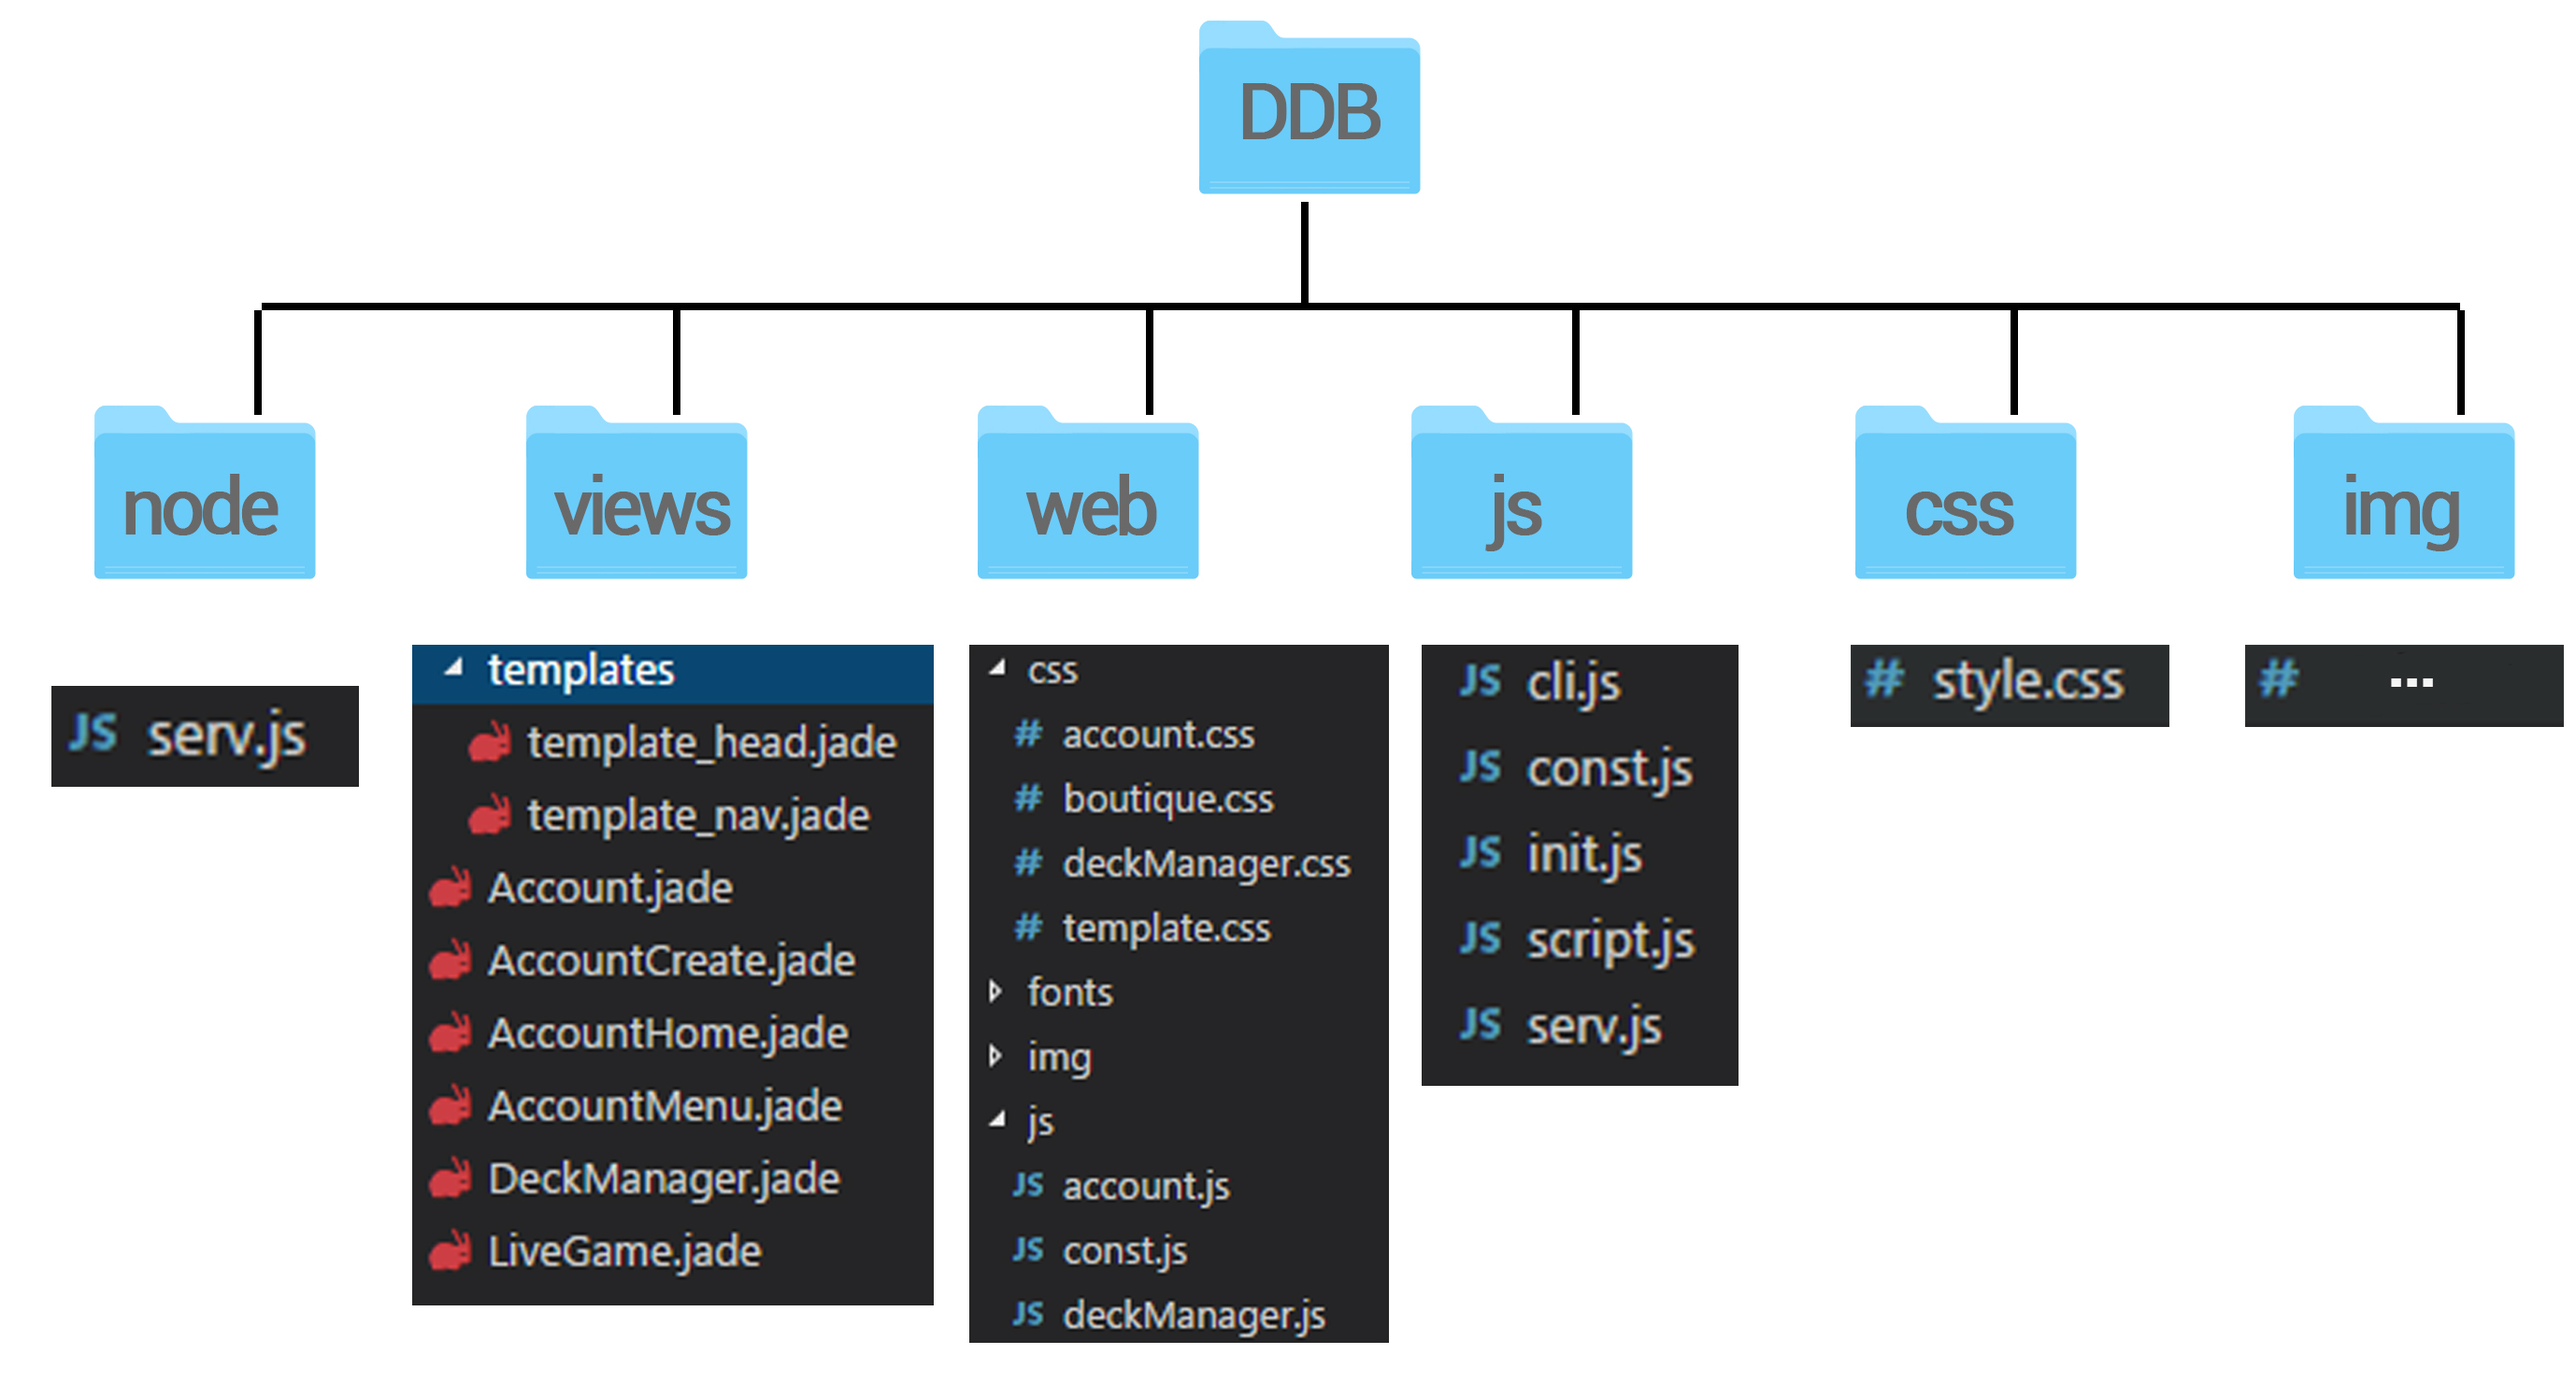
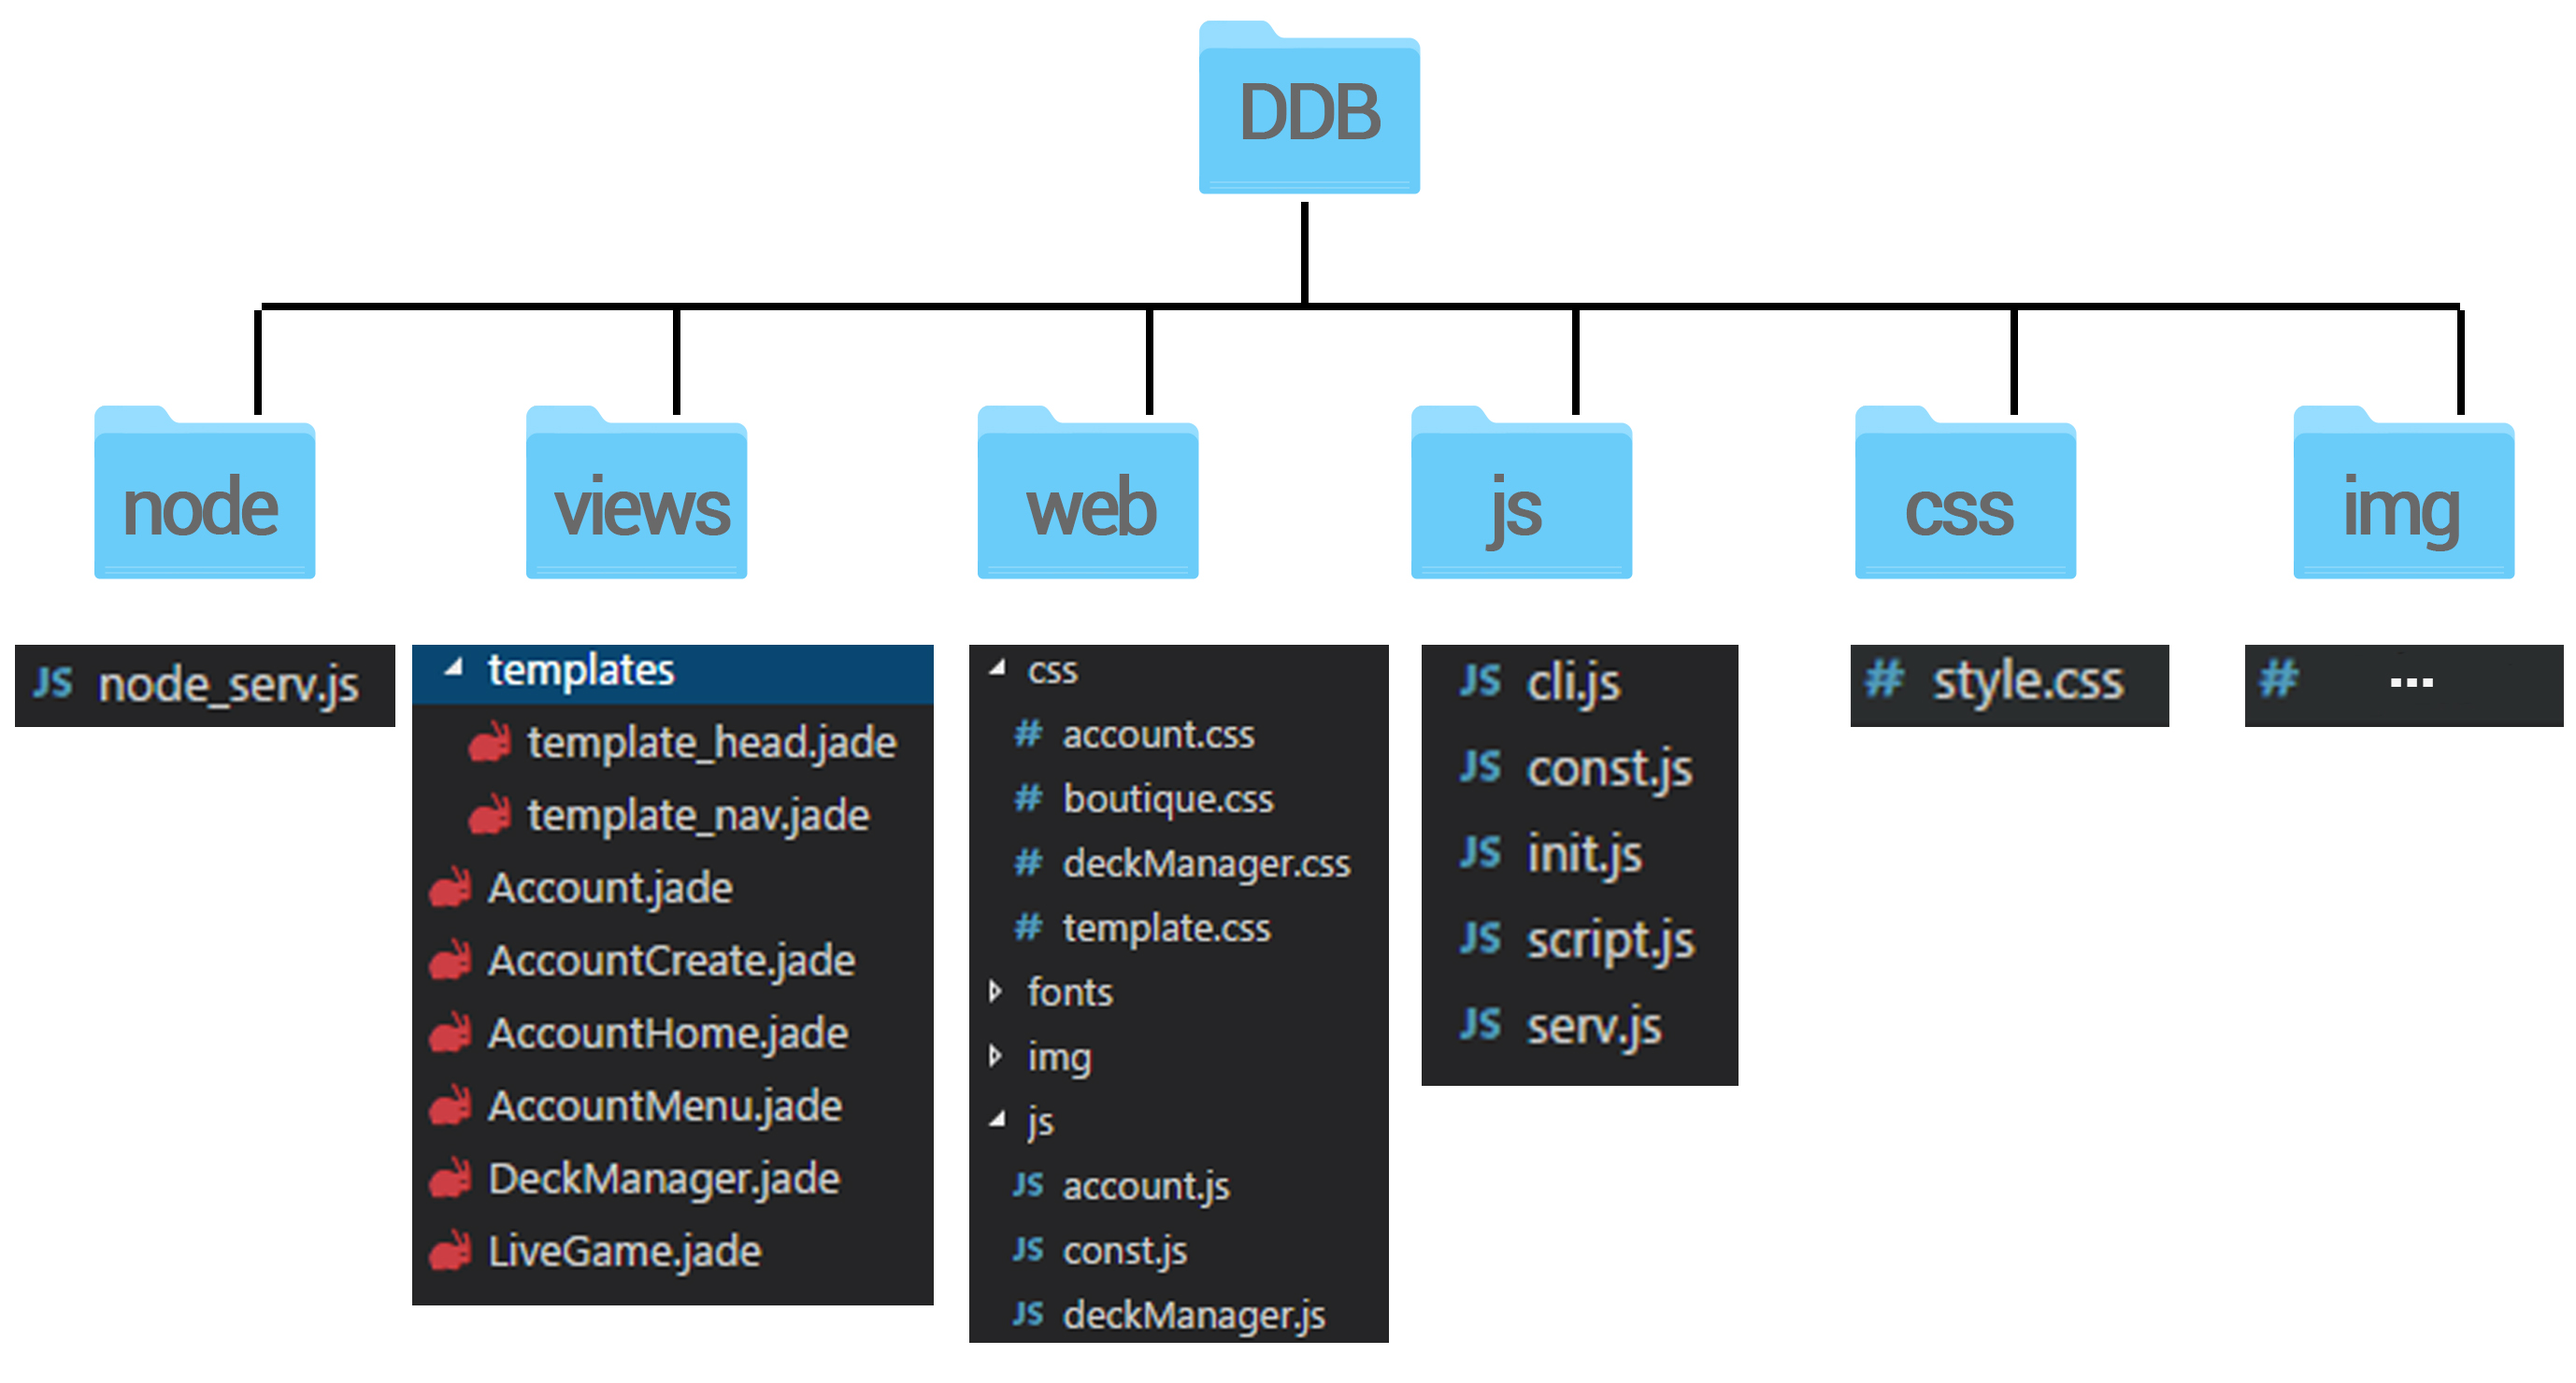
Update

Changed region(s): [[0.0, 0.4662, 0.156, 0.5905]]

diff --git a/DDB_NODE/Documentation/Technique.md b/DDB_NODE/Documentation/Technique.md
@@ -18,3 +18,31 @@ Le serveur est un serveur distant, adressé par une IP publique, qui repose sur 
 <p align="center">
     <img src="Images/STRUCTURE_DDB.jpg" width="600px"/>
 </p>
+
+#### Dossier "node"
+
+Ce dossier contient le fichier *node_serv.js*. Il s'agit du serveur *principal* ; le serveur web chargé, entre autres, de servir les fichiers au client. Dans le détail, il s'agit d'un programme assez complexe, qui se charge de gérer les cookies, de faire le "rendering" des pages à renvoyer au client, .. Voir la section [Les packages](Packages.md) pour plus d'informations. 
+
+#### Dossier "views"
+
+Ce dossier contient les fichiers *.jade* qui seront utilisés par le moteur de rendering de **Jade** afin de servir le code HTML de chaque page au client. Il possède un sous-dossier *Templates* qui contient les deux fichiers *.jade* utilisés par les autres fichiers "principaux" afin d'ajouter les lignes de code communes à toutes les pages HTML, comme le chargement des scripts ou des feuilles de style. Voir la section [Les packages / Jade](Packages.md#jade) pour plus d'informations.
+
+
+#### Dossier "web"
+
+Ce dossier contient le "contenu additionnel". Il s'agit des feuilles de styles, des scripts, des polices ou des images que les fichiers *.jade* utilisent. 
+
+Il est possible de fusionner le dossier *views* et le dossier *web* mais nous avons fais le choix de différencier les portions purement techniques et le reste dans notre architecture.
+
+#### Dossier "js"
+
+Ce dossier contient les scripts importants de notre architecture ainsi que le fichier *serv.js* qui est un second serveur node mais dont le role est différent du premier serveur ; celui-ci est le serveur **de jeu**, qui gère notamment le matchmaking et le déroulement d'un match. 
+
+#### Dossier "css"
+
+Ce dossier contient le fichier *style.css* qui recence les règles de style (CSS) principales.
+
+
+#### Dossier "img"
+
+Ce dossier contient un nombre importants d'images qui sont utilisées par le site et par le jeu (backgrounds, cartes de jeu, icônes, etc..).
